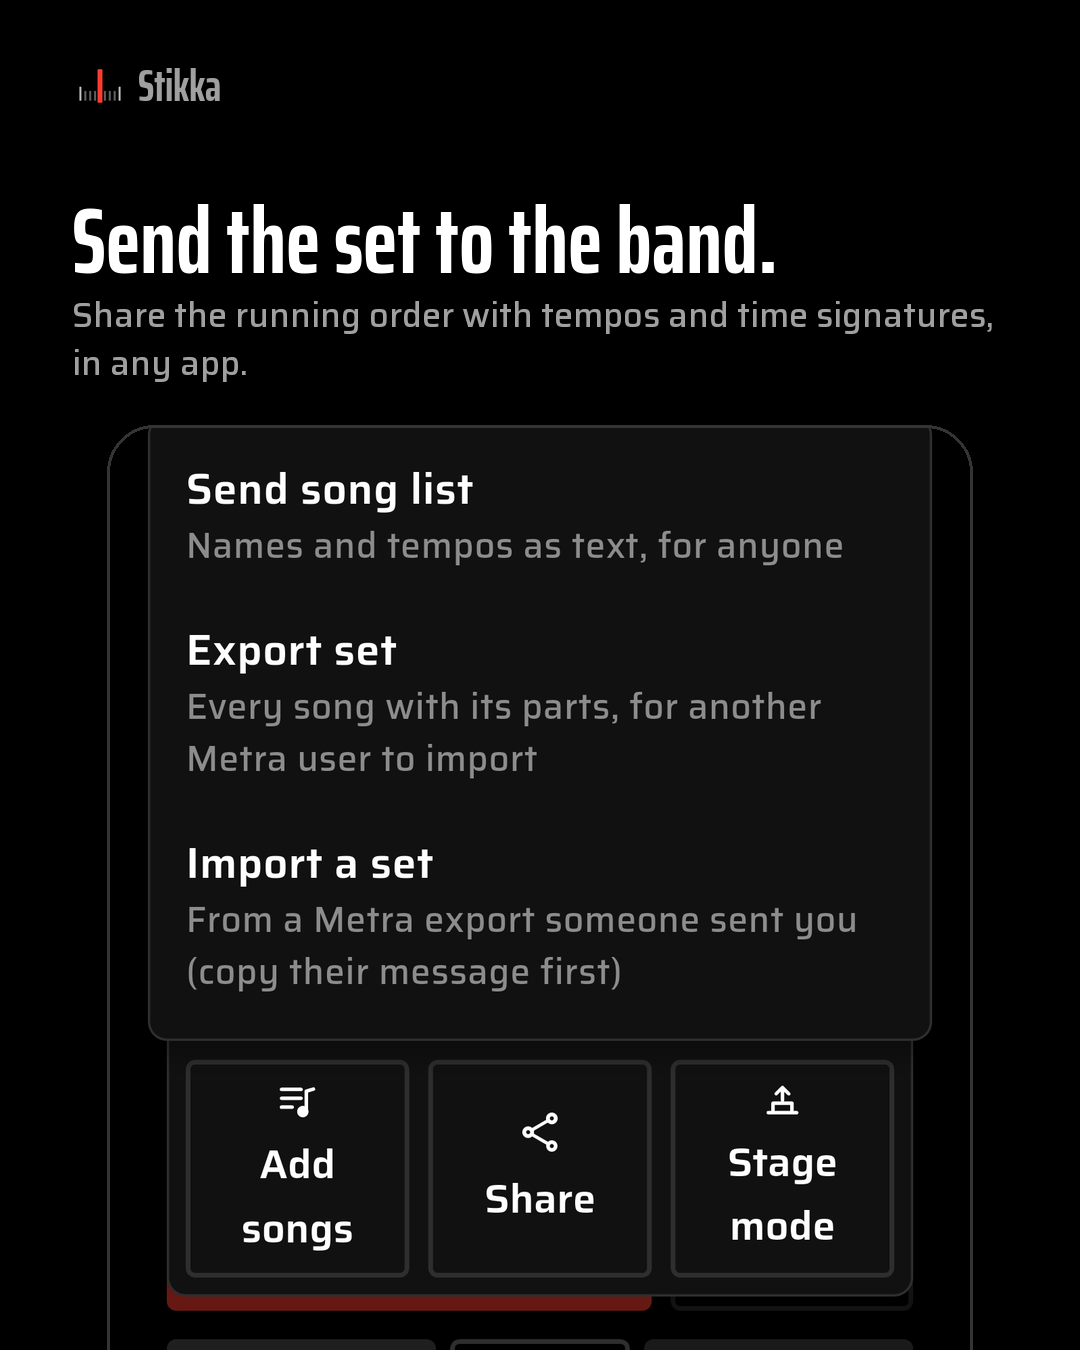
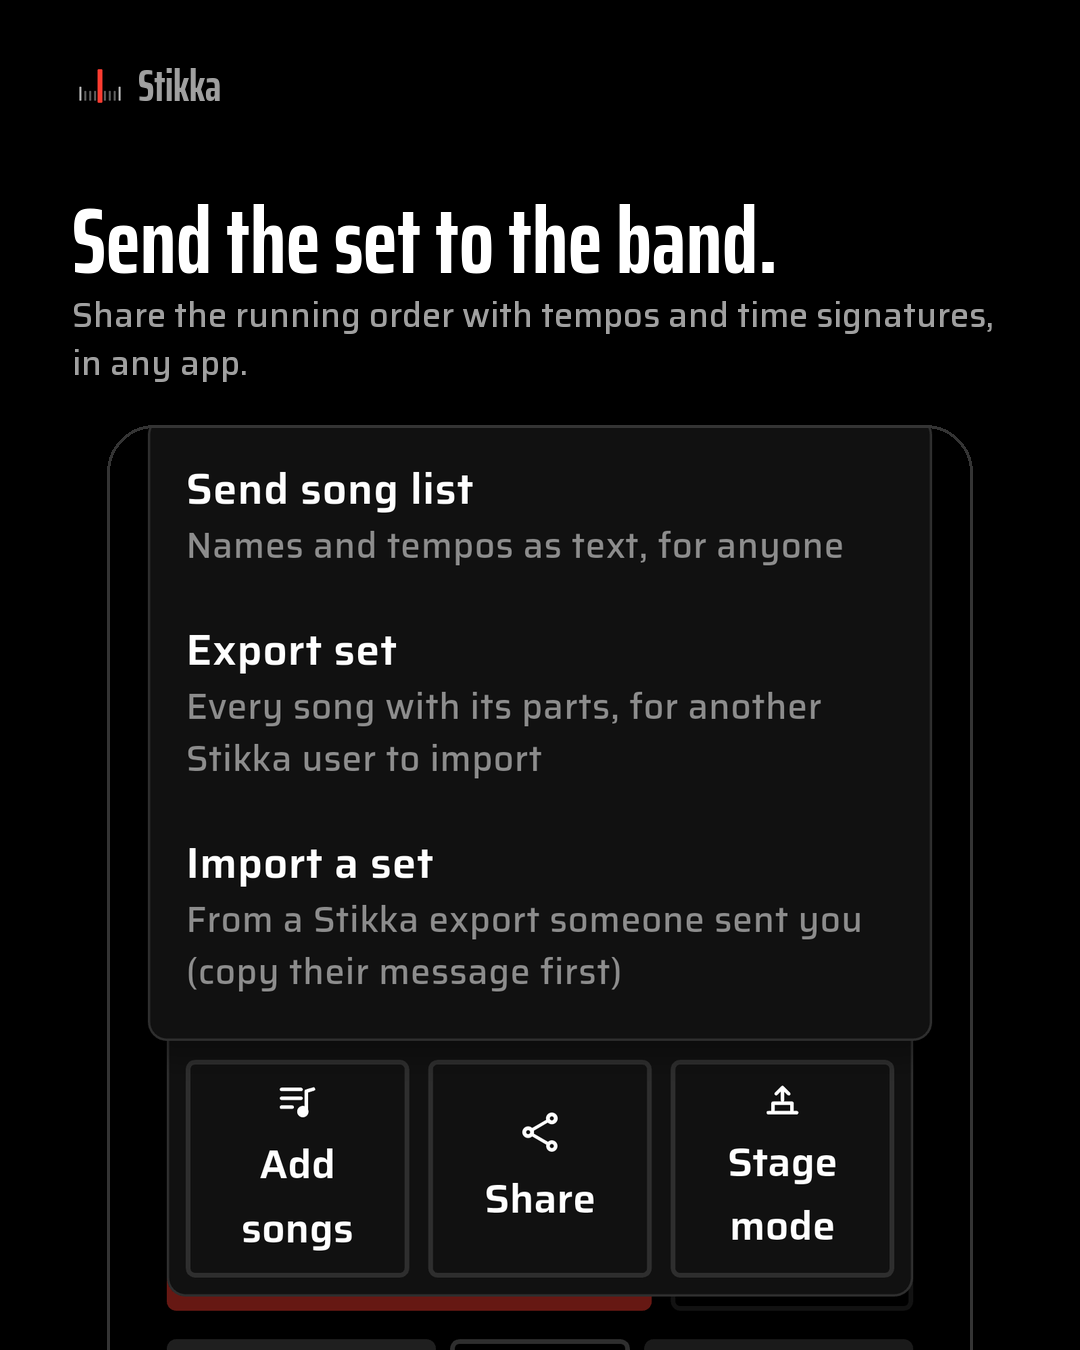
docs: handoff 06 report: Stikka rename, upgrade check on the phone's debug app, screenshots
Post 05 slide 2 uses a fresh share-menu capture (the old one said Metra).

Changed region(s): [[0.275, 0.6533, 0.7944, 0.7156], [0.1833, 0.5289, 0.4889, 0.5911]]

diff --git a/store/instagram/gen.py b/store/instagram/gen.py
@@ -202,7 +202,7 @@ POSTS = {
     ],
     '05-setlists-sharing': [
         ('s', 'The whole gig in your pocket.', 'Save songs with their tempo, rhythm and parts, then build setlists.', S + '04-set-list.png', 420),
-        ('s', 'Send the set to the band.', 'Share the running order with tempos and time signatures, in any app.', D + 'share-menu-set-115.png', 900),
+        ('s', 'Send the set to the band.', 'Share the running order with tempos and time signatures, in any app.', D + 'rename-share-menu.png', 900),
         ('s', 'Or send the songs themselves.', 'Export a set with every song and its parts. Your bandmates import it into their Stikka.', D + 'share-pick-mode-115.png', 640),
         ('cta',),
     ],

diff --git a/docs/design/handoff/reports/06-rename-stikka.md b/docs/design/handoff/reports/06-rename-stikka.md
@@ -1,0 +1,140 @@
+# 06 · Rename Metra → Stikka: report
+
+Done, not released (07 does that). Three commits: A (what users see, plus the import change and the guard), C (internal names), docs/store/social; plus this report. `flutter analyze` is clean and `flutter test` passes (1708 tests), including the release checks (no INTERNET, microphone optional) and the new name guard.
+
+Feedback address: **stikka.app@gmail.com** (Dror confirmed it).
+
+## 1. Every mention, sorted
+
+`grep -rni metra` found 859 lines in 160 files (skipping build/, .dart_tool/, .git/, docs/history.md, past CHANGELOG entries, handoff done/ and reports/). docs/design/ is the designer's: not touched, except the new screenshots and this report.
+
+**A: users see it → Stikka**
+- Launcher label: `appLabel` in android/app/build.gradle.kts, "Stikka" (release) and "Stikka dev" (debug).
+- Share-target label and Quick Settings tile label in AndroidManifest.xml. The tile and the share menu both read "Stikka" (checked in the built APKs with aapt2).
+- MaterialApp `title` (main.dart). The notification channel name was already "Metronome playback", so nothing to change. The notification and lock-screen card take the app label.
+- lib/ strings: About Stikka (title, row), the version line "Stikka 1.9.0 (109)", the feedback subject "Stikka feedback (…)", the feedback address, the licenses page `applicationName`, the tuner's microphone line, "While Stikka is open", the error messages in main.dart and metronome_screen.dart, "a newer Stikka" (share_menu.dart, twice), the share-menu lines and "Copy the whole Stikka message", "Shared from Stikka", the import help line.
+- assets/whats_new.md: the heading "What's new in Stikka" and the old line "The screen stays on while Stikka is open" (users read the old entries too).
+- ios/Runner/Info.plist: CFBundleDisplayName Stikka, CFBundleName stikka. macOS: PRODUCT_NAME Stikka, so the app is Stikka.app (scheme and test host updated).
+- store/listing.md and the feature graphic.
+- Doc comments that name the app (lib/, Kotlin) were renamed along with the strings.
+
+**B: kept on purpose** (each has the comment "Old name, kept on purpose: see ui-spec.md › Name.")
+- applicationId and namespace `com.dror.metra` / `.debug` (build.gradle.kts), and the Kotlin package (`package com.dror.metra` in all five .kt files).
+- Notification channel ID `com.dror.metra.playback` (main.dart).
+- Method channels `metra/android`, `metra/tile`, `metra/share` (android_bridge.dart) and `metra/mic`, `metra/mic/pcm` (mic_input.dart).
+- Keystore `~/keys/metra-release.jks` and its alias `metra` (comment in PLAN.md "Release builds"; key.properties is outside git).
+- The Google Group URL `metra-testers`: it stays in INSTAGRAM.md, the CTA slides and reels.py.
+- The repo folder `/Users/dror/Developer/metra` (CLAUDE.md still says to work there).
+- The saved file names never had the name in them (`library.json`, `settings.json`), so there was nothing to keep.
+- iOS/macOS bundle IDs `com.dror.metra` (they follow the app ID, as before).
+- The golden `test/fixtures/export_v1/set.txt` (build 101's text, must always read) and the new 1.9.0 fixtures: they must stay as the old builds wrote them.
+
+**C: internal → Stikka** (own commit, analyze and tests green)
+- pubspec `name: stikka`, description "Stikka, a stage metronome.", and every `package:stikka/` import (lib, test, integration_test, tool).
+- StikkaApp, StikkaColors (and StikkaColorsContext), StikkaFonts, StikkaMotion, stikkaTheme; STIKKA_ROOT in gen.py.
+- metra.iml → stikka.iml. It is gitignored, so this was a local rename (plus .idea/modules.xml), with no commit.
+- Also: the Kotlin log tag, the test temp-dir names, the env var STIKKA_COVER_OUT, and `$TMPDIR/stikka-drift` (tool/drift_parallel.sh, release.sh, release skill).
+
+**In images (OCR with macOS Vision over store/screenshots, docs/design/screens/store, the feature graphic and every image gen.py makes):**
+- store/screenshots and docs/design/screens/store: no "Metra". They show the app's screens, which never show the name.
+- After regenerating, the only hits left are intended ones:
+  - "Join the Google Group metra-testers" on the CTA slides (B).
+  - The rename announcement `posts/10-rename/1.png` and `stories/story-0-rename.png`. They were already in store/instagram and aren't made by gen.py; I left them as they are.
+- Post 05 slide 2 showed the old share menu ("…another Metra user…", "From a Metra export"). It came from `docs/design/screens/share-menu-set-115.png`. I captured the menu again on the phone at 115% as `docs/design/screens/rename-share-menu.png`, with the sidebar dots painted out. gen.py now uses that file for slide 2. Your old file is untouched.
+
+## 2. Exports, old and new
+
+- **New exports:** the data line is `stikka1:`, the help line is "To import into Stikka: copy this whole message, then in Stikka tap Share › Import.", and the song list ends with "Shared from Stikka".
+- **Import no longer cares about the name** (`parseShared`, model/share_export.dart):
+  - It tries, in order, every block in the text with an optional `<letters><version>:` prefix and 16 or more base64url characters, and takes the first one that decodes to an export.
+  - A block with no prefix reads as version 1. A prefix with any other version is skipped (the version decides how the block is read).
+  - Text around the block, such as the readable list or any "Shared from …" ending, is ignored.
+- **Tests (test/model/share_export_test.dart):**
+  - **1.9.0 fixtures:** I checked out the 1.9.0 release commit (dcdb11a) and exported a set with parts plus one song with its own code (`test/fixtures/export_v1/metra-1.9.0-set.txt` and `-song.txt`). Both import in the new build.
+  - **Round trip:** a `stikka1:` export round-trips.
+  - **Other forms:** a bare block, `foo1:`, and texts ending in "Shared from Metra" or "Shared from Stikka" all import.
+  - **Unknown version:** `stikka2:` is skipped.
+  - **Garbage:** 10 kinds of junk all give "nothing to import" and never throw.
+- **Old builds can't read new exports.** Metra 1.9.0 and older only look for `metra1:`, so they can't read a `stikka1:` export. That code is already on phones and can't be changed from here. It's accepted because every tester updates through Play. Until someone updates, they can still send to updated bandmates, but they can't read exports from them.
+
+## 3. Guard
+
+`test/platform/name_guard_test.dart` fails on "Metra" or "METRA" as a word in these places:
+- every non-comment line in lib/
+- AndroidManifest.xml and build.gradle.kts
+- assets/whats_new.md (the line that contains "now called" is allowed, for 07's rename line)
+- store/listing.md
+
+The lowercase IDs kept on purpose never match. The import code no longer names any app, so the allowlist ended up empty. `tool/release.sh` runs it as part of `flutter test` (a comment there says so).
+
+## 4. Docs, store, social
+
+- **Docs:**
+  - README ("Formerly Metra."), SECURITY, CONTRIBUTING, ARCHITECTURE, TESTING, RELEASING, PLAN, CLAUDE.md (rules unchanged, name only), and the project skills: renamed.
+  - .github issue forms: renamed.
+  - PRIVACY.md: the name, stikka.app@gmail.com, "the developer of Stikka on Google Play", and the new line "Stikka was called Metra until version 1.10.0." Nothing else changed. The effective date stays 2 November.
+  - CHANGELOG: not touched. 07 adds the entry.
+- **store/listing.md:**
+  - App name Stikka (6 / 30).
+  - Short description 74 / 80 (it doesn't name the app). Full description 3035 / 4000 (recounted).
+  - The adb paths keep the package ID, so they didn't change.
+  - feature-graphic.png: rendered again from the HTML with headless Chrome at 1024×500. The layout is the same as before; only the word changed.
+- **store/instagram:**
+  - The whole folder was untracked until now; it's committed with the regenerated images.
+  - INSTAGRAM.md: the profile name `Stikka · Metronome for drummers`, every caption and the schedule. `01-meet-metra` is now `01-meet-stikka`.
+  - INSTAGRAM.md has a new "Rename" section (Instagram, Facebook Page, Business Suite).
+  - Every image regenerated with gen.py. Only the name and Pillow's anti-aliasing differ. The profile picture and the Facebook page picture came out pixel-identical, so they stay.
+  - Reel R2 was **not** rebuilt (you said no reels). reels.py now draws "Stikka", but the existing `reels/r2-tonights-gig.mp4` still shows "Metra" in its corner. It isn't scheduled. Run `reels.py r2 <recording>` before posting it.
+- `__pycache__/` added to .gitignore.
+
+## 5. Upgrade check
+
+- **The emulator didn't work.** On the API 37 emulator, I installed 1.9.0 (release build from dcdb11a) and seeded it:
+  - imported the set (3 songs, 1 with parts) through the share target
+  - Practice speed on Glass Harbor
+  - Free play at 106
+  - A4 442
+  - the Quick Settings tile added
+
+  Installing the new build over it with `adb install -r` succeeded. Then Android's own "Updating…" screen hung, and the system server kept crashing ("System UI / Process system isn't responding", then "Activity class does not exist") until I stopped. That's the emulator, not Stikka: the same happened to the launcher. So the emulator result is incomplete.
+- **On your phone (debug app, as you said):**
+  - Stikka dev was 1.9.0 (109) with your data: 16 songs, 3 sets, 2 songs with parts.
+  - I copied library.json and settings.json off first. They are outside the repo, in my session's scratch folder.
+  - Then I installed the new debug build with `adb install -r`. **library.json is byte-identical** after the update.
+  - settings.json differs only as a fresh launch should (Principle 10 / Behavior): back to Free play (no set or song loaded) and Count-in off. Everything else is the same, including tempo 150, sound, volumes, Reference A4 and the tips seen.
+  - Importing the old `metra1:` message (the 1.9.0 fixture) through the share target showed "Add "Fri"? 3 songs, 1 with parts". I tapped **Cancel**, so your library is unchanged.
+  - Your phone's data had no Practice speed song and A4 was 440. Those cases were only covered on the emulator (before it failed) and by the tests (Practice speed and A4 are plain fields, read the same as before).
+- **Labels (aapt2 on the built APKs):** application label "Stikka" (release) / "Stikka dev" (debug), share target "Stikka", tile "Stikka".
+- **Notification:** while playing on the phone it was posted on channel `com.dror.metra.playback`, title "Midnight Engine", from the debug app. I stopped the click afterwards.
+
+## 6. Screenshots (phone, 115% text, sidebar dots cropped)
+
+- `docs/design/screens/rename-settings-about.png`: Settings › About ("About Stikka", "Stikka 1.9.0 (109)")
+- `docs/design/screens/rename-about-stikka.png`: About Stikka
+- `docs/design/screens/rename-licenses.png`: licenses page header "Stikka / 1.9.0 (109)"
+- `docs/design/screens/rename-share-menu.png`: the set's share menu with Export ("another Stikka user", "From a Stikka export"). Not cropped; the dots are painted out, because gen.py uses it.
+- `docs/design/screens/rename-import-metra1.png`: an old `metra1:` set read by the new build
+
+**Not taken:** the launcher label, the Quick Settings tile and the media notification. Those are your phone's own screens (home screen, notification shade), which I don't touch. The labels are verified in the APKs (section 5).
+
+## 7. Dror: please check on the phone (Stikka dev is installed)
+1. **Launcher:** the icon reads "Stikka dev".
+2. **Notification:** start the click. The notification and lock-screen card say Stikka dev.
+3. **Tile:** if you have the tile, its label reads Stikka.
+4. **Share menu:** share any text from another app. The share menu lists "Stikka" for the debug app.
+
+The release build says "Stikka" in all four places; 07 ships it.
+
+## 8. Your list outside the repo, in order
+
+1. **GitHub: done in this session** (you agreed). The repo is now drormos/stikka; GitHub redirects the old links.
+   - `origin` now points at `https://github.com/drormos/stikka.git`.
+   - The privacy URL is `https://github.com/drormos/stikka/blob/main/PRIVACY.md` in about.dart and RELEASING.md. The security-advisory links in SECURITY.md and the issue-form config point at the new repo too.
+   - Nothing is pushed yet: main is 5 commits ahead of origin. Push when you're ready (07 or now).
+2. **Play Console › Store listing:** the app name **Stikka**, then the short and full descriptions from store/listing.md, then the feature graphic `store/feature-graphic.png`. Then App content › Privacy policy: `https://github.com/drormos/stikka/blob/main/PRIVACY.md`. The new link works only after the push; the old link redirects.
+3. **Instagram:** Edit profile › Name `Stikka · Metronome for drummers`, then the handle if @stikka (or your choice) is free. The profile picture didn't change.
+4. **Facebook Page:** the name Stikka (Meta reviews it, usually within days), and the new cover `store/instagram/facebook/page-cover.png`.
+5. **Business Suite:** delete the scheduled Metra posts from Nov 10 on, and schedule the regenerated ones (same folders, dates and times). For the Nov 8 "Meet Metra" post, I agree with the designer: archive it and post `posts/01-meet-stikka/` (or announce with `posts/10-rename/` first).
+6. **Google Group metra-testers:** change the display name and description to Stikka. The URL stays.
+7. **Gmail:** forward metra.application@gmail.com to stikka.app@gmail.com.
+8. **The Claude Desktop project name and the canvas title:** your call.

diff --git a/docs/design/handoff/done/06-rename-stikka.md b/docs/design/handoff/done/06-rename-stikka.md
@@ -1,0 +1,91 @@
+# 06 · Rename the app: Metra → Stikka
+
+Spec: ui-spec.md › "Name" (new, at the top). Re-read it first. The band "Met Ra" claimed the old name, so the rename has to cover everything. **Before you start, ask Dror for the new feedback email address** (the plan is stikka.app@gmail.com; he's creating it). Don't release; 07 does that.
+
+## 1. Find every mention first
+`grep -rni metra` over the whole repo, skipping only build/, .dart_tool/, .git/, docs/history.md, past CHANGELOG entries, and docs/design/handoff/done/ and reports/. That includes .claude/, .agents/, .github/, tool/, test/, integration_test/, ios/, macos/, android/ (gradle files too), store/ and every *.md. Also search for "METRA" and "Metra" inside images: run OCR on store/screenshots, docs/design/screens/store and every image store/instagram/gen.py makes. Sort every hit into A, B or C below, and list all of them in the report.
+
+## 2. A: what users see → "Stikka"
+- **Launcher and app names:** the label for release builds ("Stikka") and debug builds ("Stikka dev"), wherever `appLabel` is set. The share-target label (AndroidManifest line ~66, "Metra" in the share menu). The Quick Settings tile's label. MaterialApp `title`. The notification and lock-screen media session, and the notification channel's **name** (not its ID).
+- **Every string in lib/:**
+  - About Stikka, the version line "Stikka 1.10.0 (…)", and the feedback subject.
+  - The licenses page `applicationName`.
+  - The tuner's microphone line.
+  - "Keep screen on: While Stikka is open".
+  - The error messages in main.dart and metronome_screen.dart, and "a newer Stikka".
+  - The share menu lines and the "Copy the whole Stikka message" line.
+  - The What's new heading.
+- **Feedback email:** the new address, in about.dart.
+- **ios/ and macos/:** the display names (CFBundleDisplayName / CFBundleName), even though we don't ship there.
+
+## 3. Exports must keep working, old and new
+- **New exports:** the data line becomes `stikka1:`, the ending reads "Shared from Stikka", and the help line reads "To import into Stikka: copy this whole message, then in Stikka tap Share › Import."
+- **Import finds the data by its content, not by the app's name.**
+  - It accepts any line made of letters, then a version number, a colon and the encoded block (`metra1:`, `stikka1:`, or whatever a future name brings).
+  - It accepts the block even with no prefix at all, if it decodes to a valid export.
+  - The version number still decides how the block is read.
+  - It strips any "Shared from …" ending.
+  - That way a rename never breaks sharing again.
+- **Tests:**
+  - Fixtures exported by the real 1.9.0 code (a set with parts, plus one song) import in the new build.
+  - A `stikka1:` export round-trips.
+  - A bare block and an unknown prefix (`foo1:`) both import.
+  - Garbage gets "nothing to import" and never crashes.
+- **For the report:** old Metra builds (1.9.0 and earlier) only look for `metra1:`, so they can't read a `stikka1:` export. That code is already on phones and can't be changed from here. Every tester updates through Play, so it's accepted. Say so in the report.
+
+## 4. B: keep on purpose (never shown to users; changing them would break installs or data)
+- The applicationId `com.dror.metra` / `.debug` and the Kotlin package com.dror.metra.
+- The notification channel ID `com.dror.metra.playback`, and the method channels `metra/android`, `metra/tile`, `metra/share`.
+- The saved file names, the signing key alias and keystore, the repo folder name, and the Google Group URL (`metra-testers`; Google can't rename it).
+- Add a short comment next to each of these: "Old name, kept on purpose: see ui-spec.md › Name."
+
+## 5. C: internal names → Stikka (users never see these, but future work shouldn't trip on them)
+- The Dart package name (pubspec `name: stikka`, every `package:metra/` import) and the pubspec description.
+- MetraApp, MetraColors, MetraFonts, MetraMotion, metraTheme, and METRA_ROOT in gen.py.
+- metra.iml → stikka.iml.
+- Do this as its own commit, after A, with analyze and tests green.
+
+## 6. Docs, store and social
+- **README, SECURITY, CONTRIBUTING, ARCHITECTURE, TESTING, RELEASING, PLAN.md, CLAUDE.md, and the project skills in .claude/ and .agents/:**
+  - The name becomes Stikka.
+  - Keep CLAUDE.md's rules exactly as they are, renamed only.
+  - Add one line to README: "Formerly Metra."
+- **PRIVACY.md:**
+  - The name, the email, and "the developer of Stikka on Google Play".
+  - Add: "Stikka was called Metra until version 1.10.0."
+  - Change nothing else.
+- **CHANGELOG:** don't touch past entries. 07 adds the new one.
+- **store/listing.md:**
+  - App name **Stikka**.
+  - Short and full descriptions renamed. Recount the characters, and check the 30 / 80 / 4000 limits.
+  - Fix the adb paths in the screenshot steps (the package ID stays, so mostly unchanged).
+  - Regenerate feature-graphic.png from feature-graphic.html.
+- **store/instagram/:**
+  - INSTAGRAM.md: the profile name becomes `Stikka · Metronome for drummers`, plus every caption, comment and the schedule.
+  - Rename posts/01-meet-metra → 01-meet-stikka.
+  - Regenerate every image with gen.py, then OCR them all for "Metra".
+  - Regenerate the r2 reel with reels.py if it shows the name.
+  - Add a short "Rename" section to INSTAGRAM.md: what Dror changes in Instagram, the Facebook Page and Business Suite (see 8).
+- **docs/design/** is mine. Don't edit it, except your report.
+
+## 7. Guard and checks
+- **New test:** no user-visible "Metra" anywhere. It scans the string literals in lib/, the AndroidManifest and gradle labels, assets/whats_new.md (except the rename line) and store/listing.md. The allowlist is only the old-import code in section 3. It fails the build on any other hit, and tool/release.sh runs it.
+- `flutter analyze` and `flutter test` pass, plus the release checks (no INTERNET, microphone optional).
+- **Emulator upgrade check (no phone):**
+  - Install 1.9.0 (109) from its release commit.
+  - Add songs, a set with parts, a Practice speed song, Free play settings, a changed Reference A4, and a Quick Settings tile.
+  - Install the new build over it.
+  - Everything should survive. The launcher, tile, notification and share menu should say Stikka. Importing an old `metra1:` message should work.
+- **Screenshots at 115%:** launcher label, Settings › About, About Stikka, the licenses page header, the share menu with Export, the Quick Settings tile, and the media notification. Save them as docs/design/screens/rename-*.png.
+
+## 8. In the report: Dror's list outside the repo, in this order
+1. GitHub: rename the repo drormos/metra → drormos/stikka (Settings › Rename; GitHub redirects the old links). Then: `git remote set-url origin https://github.com/drormos/stikka.git`, and switch the privacy URL in about.dart, RELEASING.md and SECURITY.md to the new address. **Ask Dror first and do it in this session if he agrees**, and say which you did.
+2. Play Console › Store listing: the app name, the short and full descriptions, the feature graphic. Then App content › Privacy policy URL: the new link.
+3. Instagram: the name field, then the handle, if Dror got @stikka (or the one he chose). Change the profile picture only if gen.py changed it.
+4. Facebook Page: the name (Meta reviews name changes, usually within days) and the cover.
+5. Business Suite: delete the scheduled Metra posts (from Nov 10 onward) and schedule the regenerated ones. Decide about the Nov 8 "Meet Metra" post (my advice: archive it and post "Meet Stikka").
+6. Google Group metra-testers: change the group's display name and description. The URL stays.
+7. Gmail: forward metra.application@gmail.com to the new address.
+8. The Claude Desktop project name and the canvas title: Dror's call.
+
+Write the report, move this file to done/, commit.
